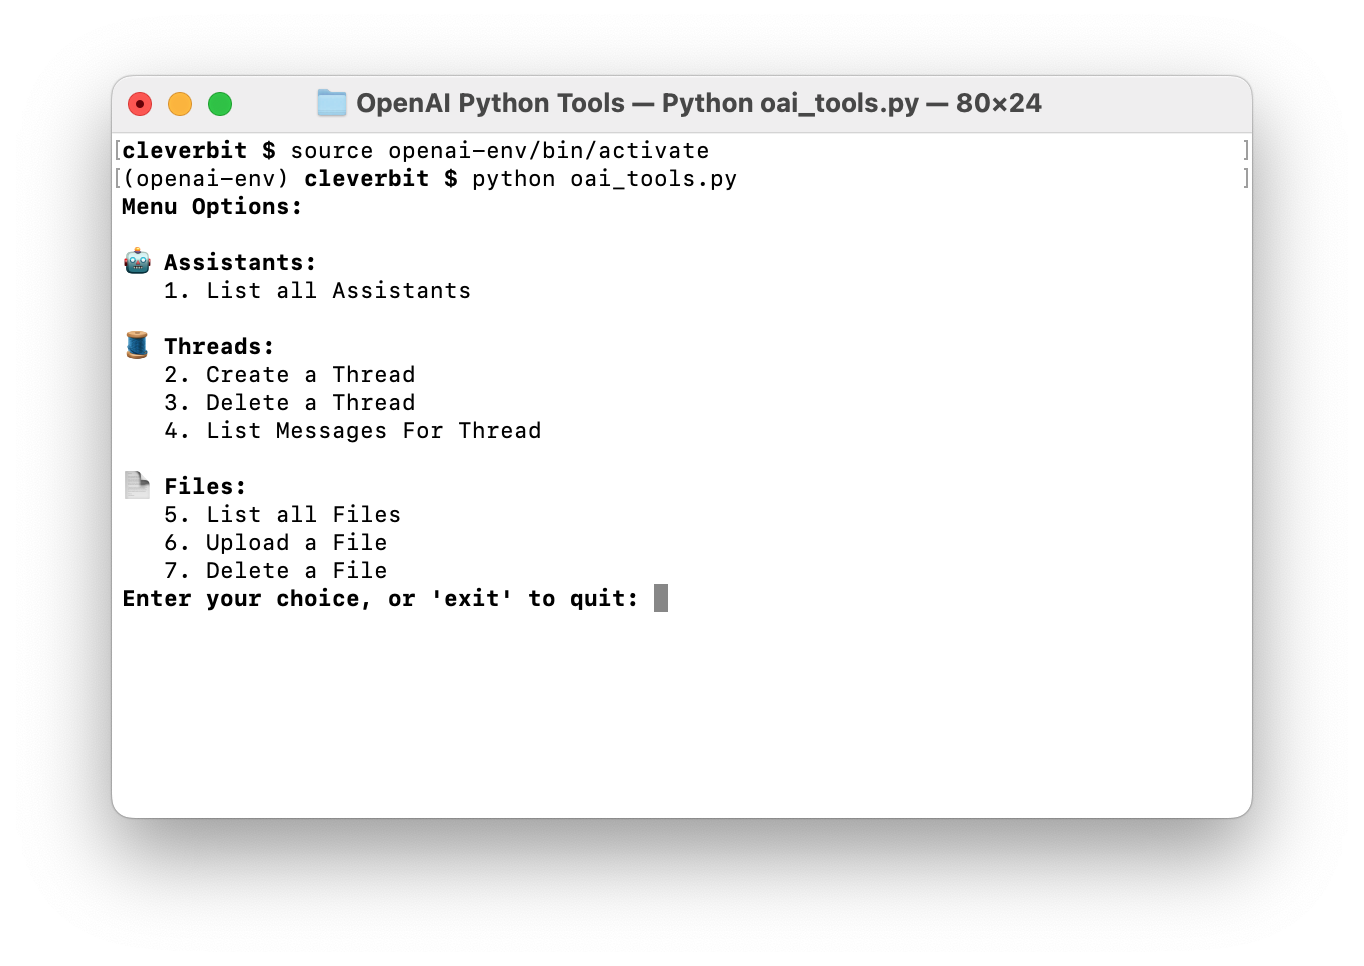
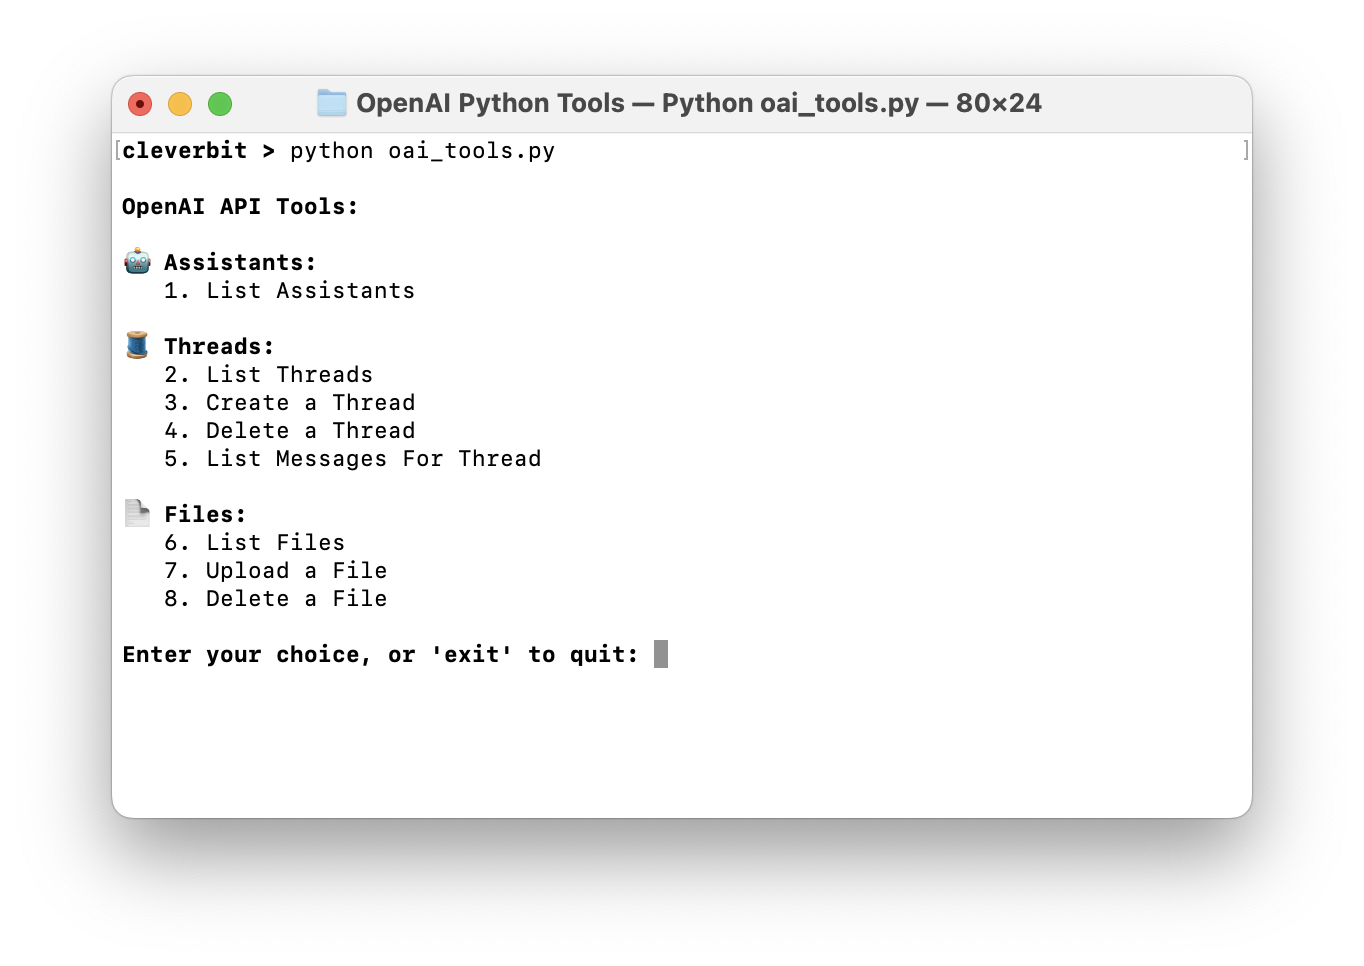
Added Persisting Thread IDs • Threads created using this tool are now persisted locally (uses appdirs) • Minor UI tweaks

diff --git a/oai_tools.py b/oai_tools.py
@@ -4,6 +4,8 @@
 
 import os
 import sys
+import appdirs
+import json
 import openai
 from dotenv import load_dotenv
 
@@ -16,6 +18,13 @@ openai_api_key = os.getenv('OPENAI_API_KEY')
 # Retrieve and set the OpenAI API key from environment variables
 openai_api_key = os.getenv('OPENAI_API_KEY')
 client = openai.Client(api_key=openai_api_key)
+
+
+# Function to get the data file path
+def get_user_defaults_file_path():
+    user_defaults_path = appdirs.user_data_dir('Cleverbit OpenAI API Tools', 'Cleverbit')
+    os.makedirs(user_defaults_path, exist_ok=True)
+    return os.path.join(user_defaults_path, 'thread_ids.json')
 
 
 def list_assistants():
@@ -40,12 +49,47 @@ def list_assistants():
 def create_thread():
     """
     Creates a new thread using the OpenAI API.
+    Stores the ID of the created thread in a local file.
     Prints the ID of the created thread upon successful creation.
     """
     print("Creating a thread...")
     response = client.beta.threads.create()
-    print(f"Created a thread! id:{response.id}")
+    thread_id = response.id
+    print(f"Created a thread! id:{thread_id}")
     
+    # Store the thread ID in a file
+    user_defaults = get_user_defaults_file_path()
+    if os.path.exists(user_defaults):
+        with open(user_defaults, 'r') as file:
+            data = json.load(file)
+            thread_ids = data.get('thread_ids', [])
+    else:
+        thread_ids = []
+
+    thread_ids.append(thread_id)
+
+    with open(user_defaults, 'w') as file:
+        json.dump({'thread_ids': thread_ids}, file)
+
+
+def list_threads():
+    """
+    Lists all stored thread IDs.
+    """
+    user_defaults = get_user_defaults_file_path()
+    if os.path.exists(user_defaults):
+        with open(user_defaults, 'r') as file:
+            data = json.load(file)
+            thread_ids = data.get('thread_ids', [])
+            if thread_ids:
+                print("Stored thread IDs:")
+                for i, tid in enumerate(thread_ids, 1):
+                    print(f"{i}. {tid}")
+            else:
+                print("No thread IDs stored.")
+    else:
+        print("No thread IDs stored.")
+
 
 def delete_thread(thread_id):
     """
@@ -191,15 +235,16 @@ def styled_input(prompt, style="\033[1m", end_style="\033[0m"):
 
 menu_structure = [
     ("🤖 Assistants", None),
-    ("List all Assistants", list_assistants),
+    ("List Assistants", list_assistants),
 
     ("🧵 Threads", None),
+    ("List Threads", list_threads),
     ("Create a Thread", create_thread),
     ("Delete a Thread", lambda: delete_thread(input("Enter the thread ID to delete: ").strip())),
     ("List Messages For Thread", lambda: list_messages(input("Enter the thread ID: ").strip())),
 
     ("📄 Files", None),
-    ("List all Files", list_files),
+    ("List Files", list_files),
     ("Upload a File", lambda: upload_file(input("Enter the RELATIVE path of the file to upload: "))),
     ("Delete a File", lambda: delete_file(input("Enter the file ID to delete: ").strip() or None)),
 ]
@@ -215,7 +260,7 @@ def display_menu():
     for user selection. This ensures alignment between the displayed menu and 
     corresponding functions in menu_functions.
     """
-    print("\033[1mMenu Options:\033[0m")
+    print("\n\033[1mOpenAI API Tools:\033[0m")
     for text, func in menu_structure:
         if func:
             print(f"   {menu_functions.index(func) + 1}. {text}")
@@ -233,7 +278,7 @@ def run():
 
         if first_run:
             display_menu()
-            choice = styled_input("Enter your choice, or 'exit' to quit: ")
+            choice = styled_input("\nEnter your choice, or 'exit' to quit: ")
             first_run = False
         else :
             choice = styled_input("Enter your choice (or type 'menu' to see options, 'exit' to quit):")

diff --git a/README.md b/README.md
@@ -1,4 +1,4 @@
-# OpenAI-Python-Tools
+# 🔹 OpenAI API Tools
 Python tools for interacting with the OpenAI API.
 
 ![Screenshot](readme-image.png)
